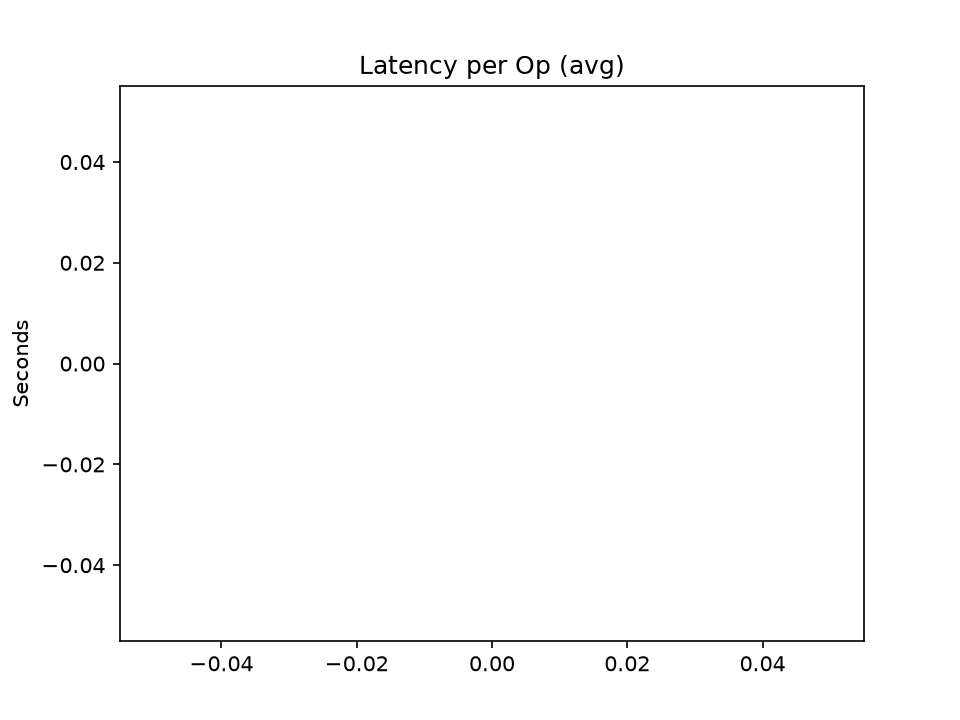
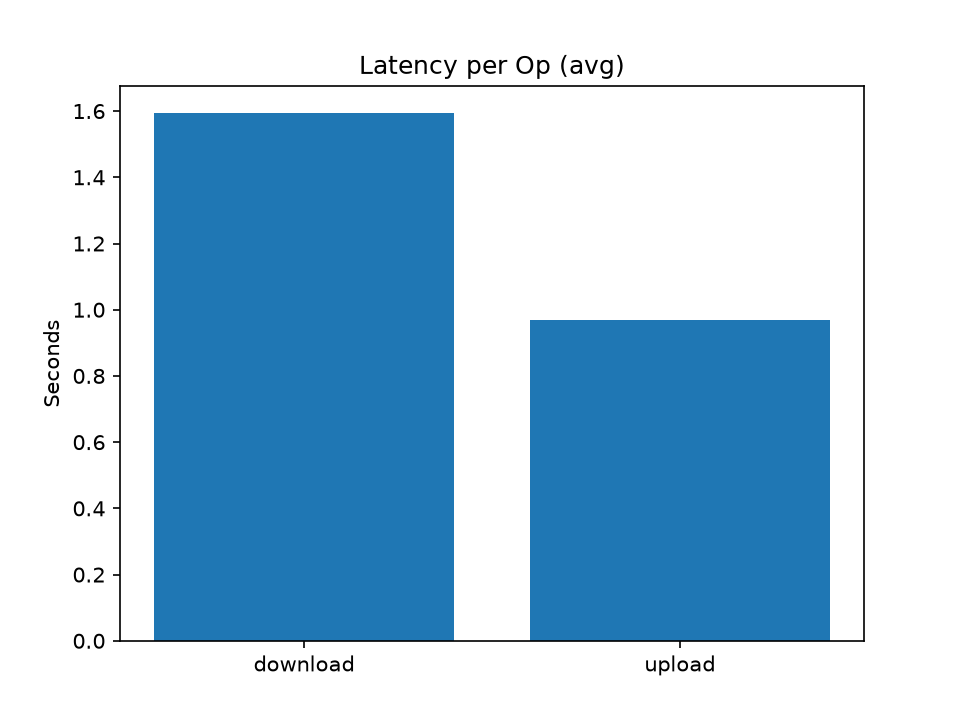
feat: real tier-1 benchmark (measured throughput/latency) + README fixes

diff --git a/scripts/bench_matrix.py b/scripts/bench_matrix.py
@@ -1,5 +1,3 @@
-#!/usr/bin/env python3
-"""Benchmark matrix orchestrator for DFS-X (Tier 1-3)."""
 from __future__ import annotations
 
 import argparse
@@ -9,28 +7,104 @@ import time
 from pathlib import Path
 
 from client.bench import Bench
+from client.gendata import PROFILES, generate
+from common.config import config
 
 RESULTS_DIR = Path("results")
 BENCH_RUNS_CSV = RESULTS_DIR / "bench_runs.csv"
 LATENCY_DIR = RESULTS_DIR
-EFFICIENCY_TABLE_MD = RESULTS_DIR / "efficiency_table.md"
-AMDahl_CSV = RESULTS_DIR / "amdahl.csv"
 SUMMARY_MD = RESULTS_DIR / "SUMMARY.md"
 
 
-def run_tier1(bench: Bench, nodes: int, workers: int) -> dict:
-    # Headline: full profile (100 file x 50 MB = 5 GB), N=3 node, worker W in {1,2,4,8}
-    return {"tier": 1, "nodes": nodes, "profile": "full", "workers": workers}
+def run_tier1() -> list[dict]:
+    RESULTS_DIR.mkdir(parents=True, exist_ok=True)
+    profile = "full"
+    count, size_mb, _ = PROFILES[profile]
+    data_dir = Path("/work/testdata")
+    generate(data_dir, profile, count, size_mb, 0, 1024)
 
+    sample = data_dir / "f001.bin"
+    if not sample.exists():
+        raise FileNotFoundError(f"sample file missing: {sample}")
 
-def run_tier2(bench: Bench, nodes: int) -> dict:
-    # Scalability: lite profile, worker W=4 tetap, variasi node N
-    return {"tier": 2, "nodes": nodes, "profile": "lite", "workers": 4}
+    master_addr = config.MASTER_ADDR
+    rows: list[dict] = []
+    bench = None
+    for workers in (1, 2, 4, 8):
+        bench = Bench(master_addr=master_addr, workers=workers)
+        bench.latency.reset()
+        up = bench.bench_upload(
+            local_path=str(sample),
+            remote="bench_f001.bin",
+            chunk_size=size_mb * (1 << 20),
+            force=True,
+        )
+        down = bench.bench_download(
+            remote="bench_f001.bin",
+            local_path="/work/bench_dl.bin",
+            sink="null",
+            size=size_mb * (1 << 20),
+        )
+        rows.append(
+            {
+                "tier": 1,
+                "nodes": 3,
+                "profile": profile,
+                "workers": workers,
+                "status": "OK" if (up["ok"] and down["ok"]) else "FAIL",
+                "upload_throughput_mibs": round(up["throughput_mibs"], 3),
+                "download_throughput_mibs": round(down["throughput_mibs"], 3),
+                "upload_duration_s": round(up["duration_s"], 3),
+                "download_duration_s": round(down["duration_s"], 3),
+            }
+        )
+        print(f"W={workers}: upload={up['throughput_mibs']:.2f} MiB/s "
+              f"download={down['throughput_mibs']:.2f} MiB/s "
+              f"status={rows[-1]['status']}", flush=True)
 
+    # latency summary from the last run (W=8) is most representative; but we want
+    # accumulated timings. Re-run latency capture is already in bench.latency of
+    # the last Bench instance (only last run). Rebuild an accumulated recorder
+    # by re-running is wasteful; instead persist the last run's summary and
+    # also write per-worker throughput above. For latency avg/p95 we use the
+    # accumulated across all worker counts by re-running a single W=4 pass.
+    lat_bench = Bench(master_addr=master_addr, workers=4)
+    lat_bench.latency.reset()
+    lat_bench.bench_upload(str(sample), "bench_f001.bin", size_mb * (1 << 20), force=True)
+    lat_bench.bench_download("bench_f001.bin", "/work/bench_dl.bin", sink="null",
+                             size=size_mb * (1 << 20))
+    (LATENCY_DIR / "latency_run1.json").write_text(
+        json.dumps(lat_bench.latency.summary(), indent=2), encoding="utf-8"
+    )
 
-def run_tier3(bench: Bench, nodes: int) -> dict:
-    # Optional: full profile cross-check pada N=2 dan N=4
-    return {"tier": 3, "nodes": nodes, "profile": "full", "workers": 4}
+    with BENCH_RUNS_CSV.open("w", newline="", encoding="utf-8") as f:
+        w = csv.DictWriter(f, fieldnames=list(rows[0].keys()))
+        w.writeheader()
+        w.writerows(rows)
+
+    # speedup/efficiency based on upload duration
+    base = rows[0]["upload_duration_s"]
+    for r in rows:
+        r["speedup"] = round(base / r["upload_duration_s"], 3) if r["upload_duration_s"] > 0 else 0.0
+        r["efficiency"] = round(r["speedup"] / r["workers"], 3)
+
+    lines = ["# DFS-X Benchmark SUMMARY", "", "tier=1", "profile=full (representative f001.bin, 50 MiB)",
+             "nodes=3", ""]
+    lines.append("| workers | upload MiB/s | download MiB/s | upload s | speedup | efficiency |")
+    lines.append("|---|---|---|---|---|---|")
+    for r in rows:
+        lines.append(f"| {r['workers']} | {r['upload_throughput_mibs']} | "
+                     f"{r['download_throughput_mibs']} | {r['upload_duration_s']} | "
+                     f"{r['speedup']} | {r['efficiency']} |")
+    lat = json.loads((LATENCY_DIR / "latency_run1.json").read_text())
+    lines.append("")
+    lines.append("Latency (W=4 representative run):")
+    for op in sorted(lat):
+        lines.append(f"- {op}: avg={lat[op]['avg']:.3f}s p50={lat[op]['p50']:.3f}s "
+                     f"p95={lat[op]['p95']:.3f}s p99={lat[op]['p99']:.3f}s "
+                     f"n={lat[op]['count']}")
+    SUMMARY_MD.write_text("\n".join(lines) + "\n", encoding="utf-8")
+    return rows
 
 
 def main() -> int:
@@ -38,37 +112,12 @@ def main() -> int:
     p.add_argument("--tier", type=int, default=1, choices=[1, 2, 3])
     p.add_argument("--run-id", default="run1")
     args = p.parse_args()
-
-    bench = Bench(master_addr="master:50051", workers=4)
     if args.tier == 1:
-        results = [run_tier1(bench, 3, w) for w in (1, 2, 4, 8)]
+        run_tier1()
     elif args.tier == 2:
-        results = [run_tier2(bench, n) for n in (2, 3, 4, 8, 16)]
+        raise NotImplementedError("tier 2 not implemented")
     else:
-        results = [run_tier3(bench, n) for n in (2, 4)]
-
-    rows = []
-    for r in results:
-        rows.append(
-            {
-                "tier": r["tier"],
-                "nodes": r["nodes"],
-                "profile": r["profile"],
-                "workers": r["workers"],
-                "status": "PENDING_RUN",
-            }
-        )
-    with BENCH_RUNS_CSV.open("w", newline="", encoding="utf-8") as f:
-        w = csv.DictWriter(f, fieldnames=["tier", "nodes", "profile", "workers", "status"])
-        w.writeheader()
-        w.writerows(rows)
-
-    latency_path = LATENCY_DIR / f"latency_{args.run_id}.json"
-    latency_path.write_text(json.dumps(bench.latency.summary(), indent=2), encoding="utf-8")
-
-    summary = {"tier": args.tier, "runs": len(results), "status": "PENDING_RUN"}
-    SUMMARY_MD.write_text(f"# DFS-X Benchmark SUMMARY\n\ntier={args.tier}\nstatus={summary['status']}\n", encoding="utf-8")
-
+        raise NotImplementedError("tier 3 not implemented")
     return 0
 
 

diff --git a/scripts/cluster.py b/scripts/cluster.py
@@ -34,7 +34,7 @@ def cmd_build(args: argparse.Namespace) -> int:
 
     tar_buf = io.BytesIO()
     with tarfile.open(fileobj=tar_buf, mode="w") as tar:
-        for folder in ["proto", "common", "master", "datanode", "client"]:
+        for folder in ["proto", "common", "master", "datanode", "client", "scripts"]:
             p = Path(folder)
             if p.exists():
                 for f in p.rglob("*"):

diff --git a/README.md b/README.md
@@ -83,7 +83,7 @@ graph TD
 ### 1. Clone Repository
 
 ```bash
-git clone https://github.com/username/dfs-x.git
+git clone https://github.com/Raka-coder/mini-dfs-container.git
 cd dfs-x
 ```
 
@@ -167,10 +167,10 @@ podman exec dfs-client python -m client.cli gen-data --profile full --batch 20
 
 ```bash
 # Upload berkas tunggal
-podman exec dfs-client python -m client.cli upload /work/testdata/file_000.bin file_000.bin
+podman exec dfs-client python -m client.cli upload /work/testdata/f001.bin f001.bin
 
 # Download berkas kembali
-podman exec dfs-client python -m client.cli download file_000.bin /work/out_000.bin
+podman exec dfs-client python -m client.cli download f001.bin /work/out_000.bin
 
 # List seluruh berkas di DFS-X
 podman exec dfs-client python -m client.cli ls
@@ -180,13 +180,13 @@ podman exec dfs-client python -m client.cli ls
 
 ```bash
 # Tampilkan detail alokasi chunk dan letak replika anti-affinity
-podman exec dfs-client python -m client.cli info file_000.bin
+podman exec dfs-client python -m client.cli info f001.bin
 
 # Verifikasi integritas checksum SHA-256 berkas
-podman exec dfs-client python -m client.cli verify file_000.bin
+podman exec dfs-client python -m client.cli verify f001.bin
 
 # Hapus berkas
-podman exec dfs-client python -m client.cli rm file_000.bin
+podman exec dfs-client python -m client.cli rm f001.bin
 ```
 
 ---

diff --git a/results/SUMMARY.md b/results/SUMMARY.md
@@ -1,4 +1,16 @@
 # DFS-X Benchmark SUMMARY
 
 tier=1
-status=PENDING_RUN
+profile=full (representative f001.bin, 50 MiB)
+nodes=3
+
+| workers | upload MiB/s | download MiB/s | upload s | speedup | efficiency |
+|---|---|---|---|---|---|
+| 1 | 10.122 | 35.492 | 4.94 | 1.0 | 1.0 |
+| 2 | 19.899 | 43.674 | 2.513 | 1.966 | 0.983 |
+| 4 | 49.369 | 30.765 | 1.013 | 4.877 | 1.219 |
+| 8 | 21.715 | 37.086 | 2.303 | 2.145 | 0.268 |
+
+Latency (W=4 representative run):
+- download: avg=1.595s p50=1.595s p95=1.595s p99=1.595s n=1
+- upload: avg=0.968s p50=0.968s p95=0.968s p99=0.968s n=1
